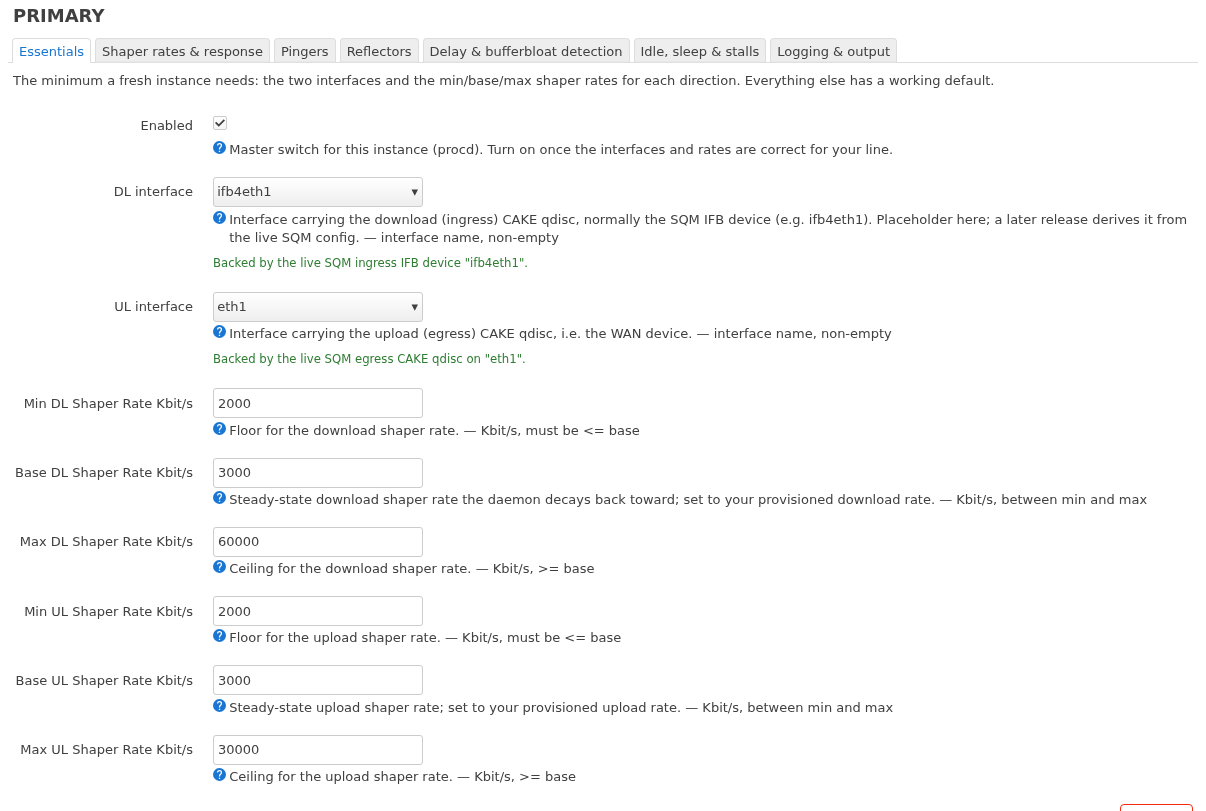
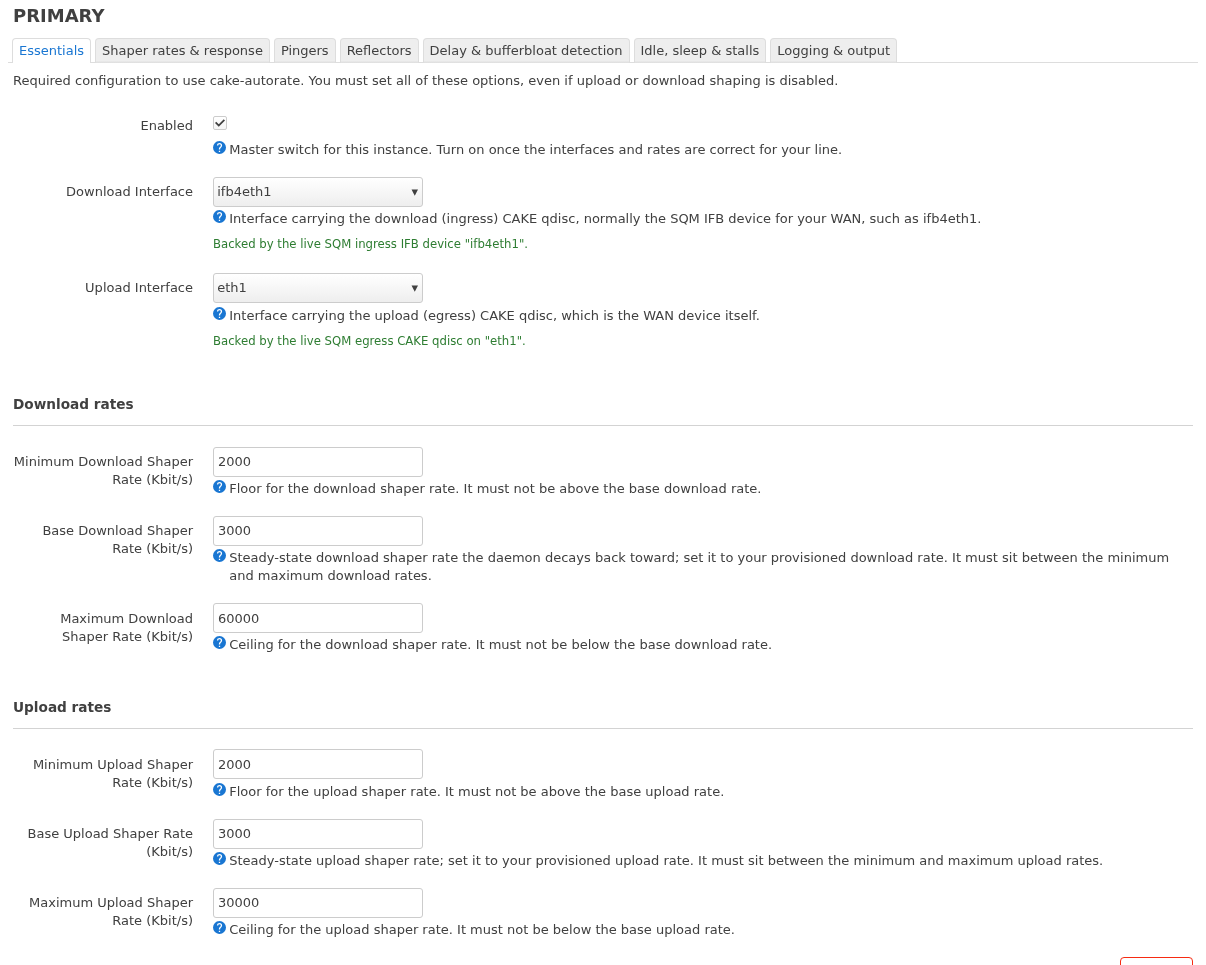
docs: refresh the screenshots and add the statistics dashboard
Every committed screenshot showed the old form: DL/UL titles, "Min DL
Shaper Rate Kbit/s", " — 0 or 1" under checkboxes, the duplicated SQM
interface listing. Regenerate all five from a live VM, and add a sixth
for the collectd dashboard, which the docs described in prose and had
never shown.

Two claims come out with the images, because both were wrong:

- "the stock luci-app-statistics setup does [Include /etc/collectd/
  conf.d]". It does not. The /etc/config/luci_statistics shipped in
  25.12.5 has that line commented out -- checked in the published apk --
  so the package's drop-in is never read and the CAKE Autorate graphs
  stay empty on a fresh install however long collectd runs. The caveat
  now says so and gives the one-liner, and the LuCI Makefile's comment
  stops claiming luci-app-statistics wires this up for us.
- "no extra setup" for the graphs, in the same reference. Installing the
  package does put the tab there; filling it takes that setting.

docs/testing.md gains the CA_UI_STATISTICS=1 regeneration path, and
tests/ui/README.md the warning that the docs project must not share a VM
with the visual one -- the visual specs delete their way down to an empty
config on purpose, so a docs run after them photographs the wreckage.

Claude-Session: https://claude.ai/code/session_016KgHKnpf3KQRgEKpaS326S

diff --git a/docs/configuration.md b/docs/configuration.md
@@ -24,13 +24,16 @@ second section for a second WAN (see **Multi-instance**, below).
 
 ## Essentials first
 
-A fresh instance needs only its two interfaces and the min/base/max shaper rates
-for each direction — **everything else has a working default**. In LuCI these
-live on the **Essentials** tab; in UCI they are the first block of the section:
+Every instance needs its two interfaces and the minimum/base/maximum shaper
+rates for **both** directions — including a direction whose shaping you have
+turned off. Everything else has a working default. In LuCI these live on the
+**Essentials** tab, where the rates sit under a *Download rates* and an *Upload
+rates* heading; in UCI they are the first block of the section:
 
-![The Essentials tab: the Enabled switch, the DL/UL interface pickers each
-confirming which live SQM device backs them, and the six min/base/max shaper
-rate fields with their units and ordering rules](images/config-essentials.png)
+![The Essentials tab: the Enabled switch, the download and upload interface
+pickers each confirming which live SQM device backs them, and the six shaper
+rate fields under their Download rates and Upload rates
+headings](images/config-essentials.png)
 
 ```
 config cake-autorate 'primary'
@@ -68,7 +71,7 @@ you can jump straight to an option by name:
 
 | Group (tab) | What it covers |
 | --- | --- |
-| **Essentials** | Interfaces + min/base/max rates (above). |
+| **Essentials** | Interfaces + minimum/base/maximum rates for both directions (above). |
 | **Shaper rates & response** | How aggressively the rate moves up/down on load and bufferbloat (`shaper_rate_adjust_*`, `high_load_thr`, refractory periods). |
 | **Pingers** | Probe binary (`fping`), pinger count and ping interval. |
 | **Reflectors** | The ICMP target pool and how misbehaving reflectors are detected and rotated. |
@@ -198,12 +201,15 @@ text.
 
 ## Reading the statistics graphs
 
-`luci-app-cake-autorate` ships a collectd graph definition, so once the package
-is installed and collectd is running you get RRD graphs with **no extra setup**.
+`luci-app-cake-autorate` ships a collectd graph definition and depends on
+`luci-app-statistics`, so the graphs are there as soon as the package is. They
+need **one** setting to start receiving data — see [the caveat
+below](#statistics-caveat-collectd-must-be-told-to-read-the-drop-in) — and then:
 
 1. Go to **Statistics → Graphs** (from `luci-app-statistics`).
-2. Select the **CAKE Autorate** plugin. There is **one panel per instance** (the
-   collectd plugin instance is the cake-autorate instance id, e.g. `primary`).
+2. Select the **CAKE Autorate** plugin. Each instance gets its own **set of
+   three panels** (the collectd plugin instance is the cake-autorate instance
+   id, e.g. `primary`, and appears in every panel title).
 3. Each panel graphs, per direction (download/upload):
    - **achieved rate** and **CAKE shaper rate** (Kbit/s) — watch the shaper rate
      track load: it climbs toward `max` under sustained high load and decays back
@@ -211,8 +217,15 @@ is installed and collectd is running you get RRD graphs with **no extra setup**.
    - **average one-way-delay delta** (µs) — the latency signal that drives the
      controller;
    - **load / bufferbloat state** — a gauge where `0`/`1`/`2` = idle/low/high
-     load and a value `>= 10` means bufferbloat is currently flagged (the load
-     level is the value mod 10).
+     load and a value of 10 or more means bufferbloat is currently flagged (the
+     load level is the value mod 10).
+
+![The Statistics graph page on the CAKE Autorate tab: shaper and achieved rates
+plotted with upload mirrored below the axis, the one-way-delay delta and the
+load state, one set of panels per instance](images/statistics-graphs.png)
+
+Upload series are drawn **below** the axis in the classic SQM mirror layout, so
+the two directions read apart at a glance.
 
 With the default `pinger_binary` of `fping`, the **download and upload OWD delta
 curves are identical**, because ICMP echo has no one-way delay to measure:
@@ -260,12 +273,34 @@ sending ICMP to the reflectors on a link nobody is using. Lowering
 but upstream **refuses to start** if it exceeds either `min_dl_shaper_rate_kbps`
 or `min_ul_shaper_rate_kbps`, so it can only go down, not up.
 
-### Statistics caveat
+### Statistics caveat: collectd must be told to read the drop-in
 
 The package drops its collectd config at `/etc/collectd/conf.d/cake-autorate.conf`
 and loads the `exec` plugin there itself (the `tail` plugin cannot map the
-string load-condition to a number). For this to take effect, collectd's main
-config must **Include `/etc/collectd/conf.d`** — the stock
-`luci-app-statistics` setup does. If you run a hand-rolled collectd config that
-does not include that directory, add it, or the CAKE Autorate graphs will not
-appear even though the daemon is logging fine.
+string load-condition to a number). For that to take effect, collectd's main
+config must **Include `/etc/collectd/conf.d`** — and on OpenWrt 25.12.5 it does
+not.
+
+`luci-app-statistics` replaces `/etc/collectd.conf` with a symlink to a config
+it generates from `/etc/config/luci_statistics`, and the config file it ships
+has the `Include` line **commented out**:
+
+```
+config statistics 'collectd'
+	option BaseDir '/var/run/collectd'
+#	option Include '/etc/collectd/conf.d'
+```
+
+So on a fresh install the drop-in is never read, and the **CAKE Autorate** tab
+under Statistics → Graphs stays empty however long collectd runs — even though
+the daemon is logging fine and the reader script works. Uncomment it, or set it
+from the command line, and restart:
+
+```sh
+uci set luci_statistics.collectd.Include='/etc/collectd/conf.d'
+uci commit luci_statistics
+/etc/init.d/luci_statistics restart
+```
+
+The same applies to a hand-rolled collectd config that does not include that
+directory.

diff --git a/README.md b/README.md
@@ -15,7 +15,7 @@ bandwidth up and down to keep latency low without giving away throughput.
 | --- | --- |
 | `cake-autorate` | The upstream **bash** daemon (pinned to tag **v3.2.2**) plus the OpenWrt glue: `/etc/config/cake-autorate` UCI, a procd init script (one supervised daemon per enabled instance), the UCI→native config bridge, an rpcd backend, and a collectd `exec` statistics source. |
 | `luci-app-cake-autorate` | The LuCI UI: an Essentials-first configuration form with SQM-validated interface pickers, plus a live status view. Depends on `cake-autorate` + `luci-base`. |
-| Statistics graphs | Shipped inside `luci-app-cake-autorate`: a collectd RRD definition (`cake_autorate.js`) that renders the daemon's achieved/shaper rates, OWD deltas and load state under **Statistics → Graphs**, one panel per instance. |
+| Statistics graphs | Shipped inside `luci-app-cake-autorate`: a collectd RRD definition (`cake_autorate.js`) that renders the daemon's achieved/shaper rates, OWD deltas and load state under **Statistics → Graphs**, as one set of three panels per instance. |
 
 Both packages are **noarch** (`PKG_ARCH:=all` / pure shell + JS payload), so a
 single build serves every target.
@@ -26,12 +26,15 @@ single build serves every target.
 
 ## What it looks like
 
-**Network → CAKE Autorate → Configuration.** A fresh instance needs only its two
-interfaces and the min/base/max rates; the interface pickers are populated from
-the live SQM config and confirm what they are backed by:
+**Network → CAKE Autorate → Configuration.** The Essentials tab is the
+configuration an instance cannot run without: its two interfaces, then a
+download and an upload rate trio under their own headings. The interface pickers
+are populated from the live SQM config and confirm what they are backed by:
 
-![The Essentials tab of the LuCI configuration form, showing the DL/UL interface
-pickers with their SQM validation hints and the six shaper-rate fields](docs/images/config-essentials.png)
+![The Essentials tab of the LuCI configuration form, showing the download and
+upload interface pickers with their SQM validation hints, and the six
+shaper-rate fields under their Download rates and Upload rates
+headings](docs/images/config-essentials.png)
 
 **Network → CAKE Autorate → Status.** A live per-instance readout, refreshed
 every 3 seconds from the running daemon, with start/stop/restart controls per
@@ -45,6 +48,16 @@ The daemon only samples while there is traffic: with `enable_sleep_function`
 idle link and stops reporting until traffic returns. The table then holds the
 last sample it did report, and **Last update** says how long ago that was —
 `16:25:36 (4m 12s ago)`. That is normal on an idle line, not a stalled service.
+
+**Statistics → Graphs → CAKE Autorate.** One panel set per instance, graphing
+the shaper rate against the achieved rate, the one-way-delay delta driving the
+controller, and the load/bufferbloat state. Installing the package is enough to
+put the tab there; one collectd setting is what starts filling it (see the
+[statistics caveat](docs/configuration.md#statistics-caveat-collectd-must-be-told-to-read-the-drop-in)):
+
+![The luci-app-statistics graph page on the CAKE Autorate tab, showing the
+shaper and achieved rates for download and upload, the one-way-delay delta and
+the load state, one set of panels per instance](docs/images/statistics-graphs.png)
 
 More screenshots — the grouped advanced tabs, the option search and a two-WAN
 setup — are in the [configuration reference](docs/configuration.md). All of them

diff --git a/docs/testing.md b/docs/testing.md
@@ -280,6 +280,31 @@ cd tests/ui
 npx playwright test --project=docs      # writes docs/images/*.png
 ```
 
+One image needs more than that. `statistics-graphs.png` shows the collectd
+dashboard, and while `luci-app-statistics` is always installed (the LuCI app
+depends on it), a serve VM has no `cake_autorate` RRDs behind it: collectd is
+not told to read the package's drop-in, and a VM minutes old has nothing to
+graph anyway. Turn that path on for the docs run:
+
+```sh
+cd tests/ui
+CA_UI_STATISTICS=1 npx playwright test --project=docs
+```
+
+That makes serve mode set the `Include /etc/collectd/conf.d` that
+luci-app-statistics' generated config omits (see
+[`configuration.md`](configuration.md#statistics-caveat-collectd-must-be-told-to-read-the-drop-in)), put real load on the
+primary WAN so the shaper moves, and collect for `CA_UI_STATS_WARMUP_S` seconds
+(default 600) **before** reporting the VM ready — so the run opens on a
+dashboard with data in it rather than racing collectd's first sample. Budget
+about ten minutes more wall-clock. Without the variable that one test **skips**,
+naming the variable in the skip reason; the other five images still regenerate.
+
+It also shortens collectd's interval and adds a 15-minute RRA, so a VM that is
+minutes old draws a readable graph instead of a sliver against an empty
+two-hour axis. Those are demo-box settings — the timespan dropdown in that
+screenshot therefore offers a `15min` span a stock install does not.
+
 It is a generator, not a test: it asserts nothing and compares against no
 baseline. **CI never runs it** (the workflow names `--project=functional` and
 `--project=visual` explicitly), so it cannot gate a build or rewrite committed

diff --git a/tests/ui/README.md b/tests/ui/README.md
@@ -20,6 +20,8 @@ project.
         02-instance-crud.spec.js
         03-essentials-only.spec.js
         04-status-controls.spec.js
+        05-rate-validation.spec.js
+      docs/screenshots.spec.js   generator for docs/images/ (asserts nothing)
       # task 12 adds:  visual/ + screenshot baselines
 
 `node_modules/`, `.runtime/`, `test-results/`, `playwright-report/` are
@@ -36,6 +38,13 @@ gitignored. Browser binaries live in `~/.cache/ms-playwright` (never in-repo).
     cd tests/ui
     npx playwright test --project=functional     # DOM/behaviour assertions
     npx playwright test --project=visual         # full-page screenshot diffs
+    npx playwright test --project=docs           # regenerates docs/images/*.png
+
+Run `docs` on its own, and never after `visual`: the visual specs delete their
+way down to an empty config on purpose (the VM is thrown away afterwards), so a
+docs run sharing that VM would photograph the wreckage. Its statistics
+screenshot additionally needs `CA_UI_STATISTICS=1` — see
+[`docs/testing.md`](../../docs/testing.md#documentation-screenshots).
 
 Requires KVM (the suite boots a QEMU VM). Without a live LuCI every spec
 **skips** (never fails) — see "No live LuCI" below. Set `CA_IT_REQUIRE_KVM=1` to
